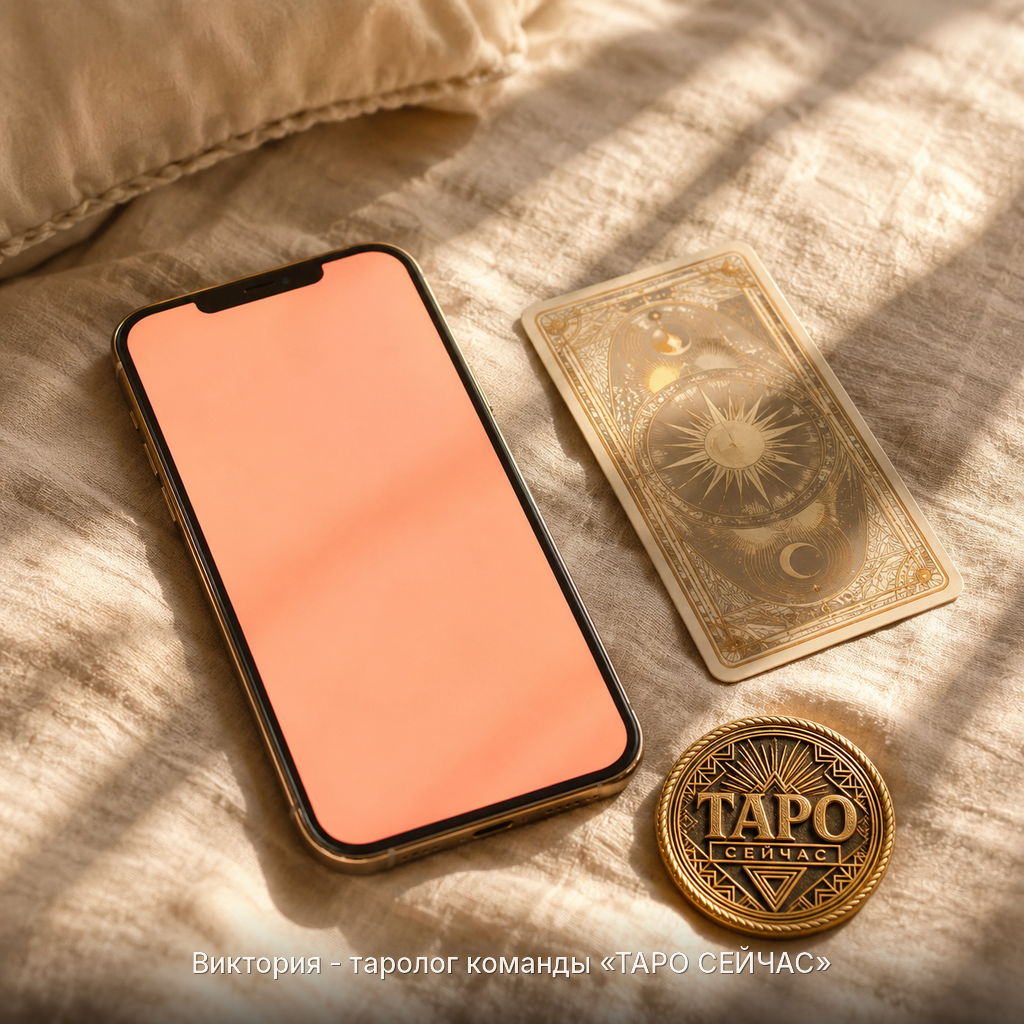
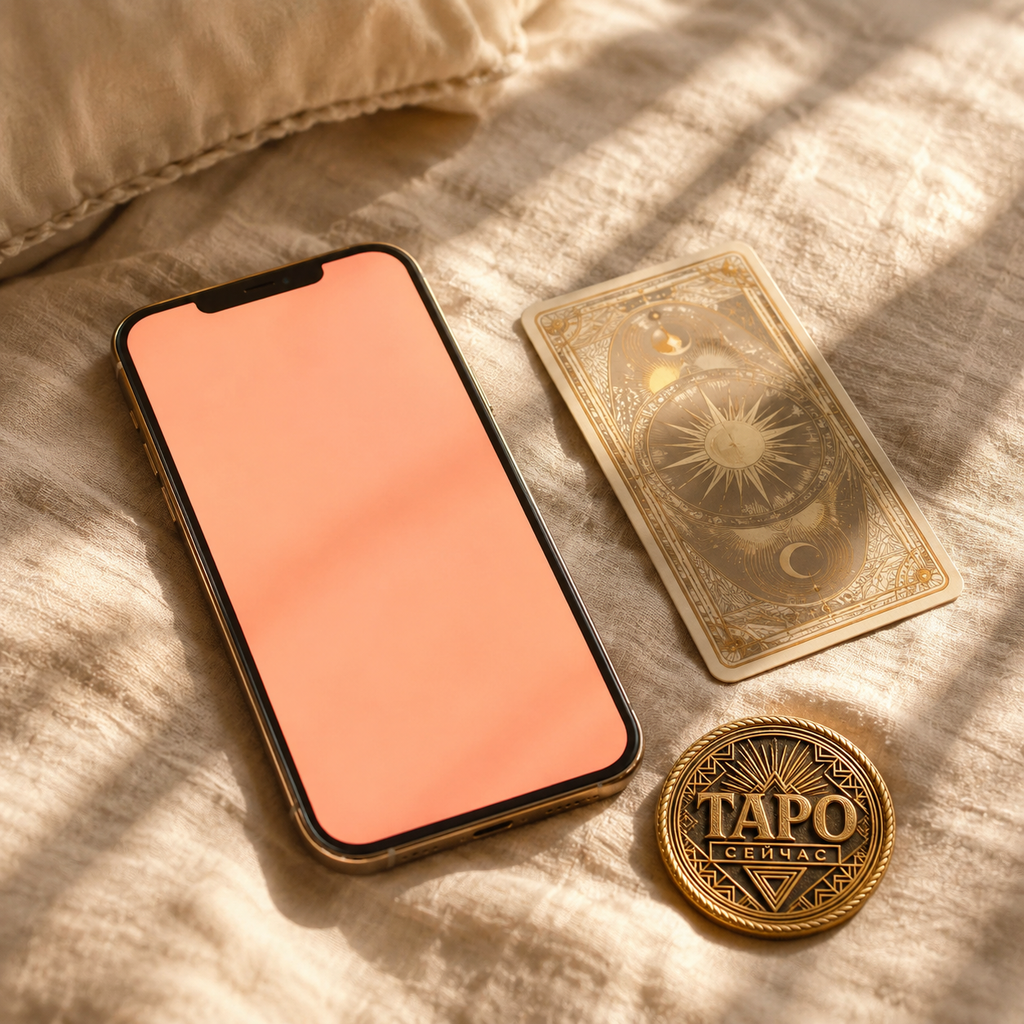
Stop Victoria credit overlay on channel post images
From 22.08 the caption stays on article covers only.
Today's 12:12 frame is the raw 1K still without the code overlay.

Changed region(s): [[0.0, 0.9062, 1.0, 1.0]]

diff --git a/posts/2026-08-22-1212/prompt.md b/posts/2026-08-22-1212/prompt.md
@@ -10,8 +10,7 @@ ref: images/refs/taro-seichas-logo.png
 resolution: 1K
 who: none
 why-her: рефа Виктории в images/refs нет (victoria.png / victoria-1.jpg), лицо не генерируем
-overlay: Виктория - таролог команды «ТАРО СЕЙЧАС»
-overlay-how: код после генерации, не модель
+overlay: none
 site: none
 palette: интерфейс телефона + коралл / шампань
 prompt: A smartphone face up on crumpled ivory linen in bright late-morning sun, screen a blank pale coral glow. One face-down tarot card beside it. A small circular gold Art Deco medallion from the reference lies on the linen as a real object — keep circle, ТАРО, СЕЙЧАС and geometry, champagne-gold finish. Unused pillow blurred, window-frame shadows. Ivory, sand, coral. 50mm, high angle, shallow DOF, glossy magazine still. no extra text, no website, no URL, no watermark, no logo except the referenced medallion.
@@ -20,8 +19,8 @@ kie-ready: yes
 
 ## Выдача
 
-- `cover-raw.png` — сырой кадр 1K (`1024×1024`) с Kie, без подписи
-- `cover.png` — тот же кадр + подпись кодом: Виктория - таролог команды «ТАРО СЕЙЧАС»
+- `cover.png` — кадр 1K (`1024×1024`) с Kie, без подписи Виктории (правило с 22.08)
+- `cover-raw.png` — тот же файл
 - Kie task: `4c461150e6abd1bfb361f61c45b0d3e7`, model `gpt-image-2-image-to-image`, 1:1, 1K
 - лицо: не генерировали, рефа Виктории нет
 - не публиковать

diff --git a/images/prompts/2026-08-22.md b/images/prompts/2026-08-22.md
@@ -8,5 +8,5 @@ who: none
 why-her: рефа Виктории нет, лицо не генерируем
 prompt: A smartphone face up on crumpled ivory linen in bright late-morning sun, screen a blank pale coral glow. One face-down tarot card beside it. A small circular gold Art Deco medallion from the reference lies on the linen as a real object — keep circle, ТАРО, СЕЙЧАС and geometry, champagne-gold finish. Unused pillow blurred, window-frame shadows. Ivory, sand, coral. 50mm, high angle, shallow DOF, glossy magazine still. no extra text, no website, no URL, no watermark, no logo except the referenced medallion.
 why: пост про паузу без точки — телефон на льне, медальон как предмет в кадре.
-overlay: Виктория - таролог команды «ТАРО СЕЙЧАС»
+overlay: none
 file: posts/2026-08-22-1212/cover.png
